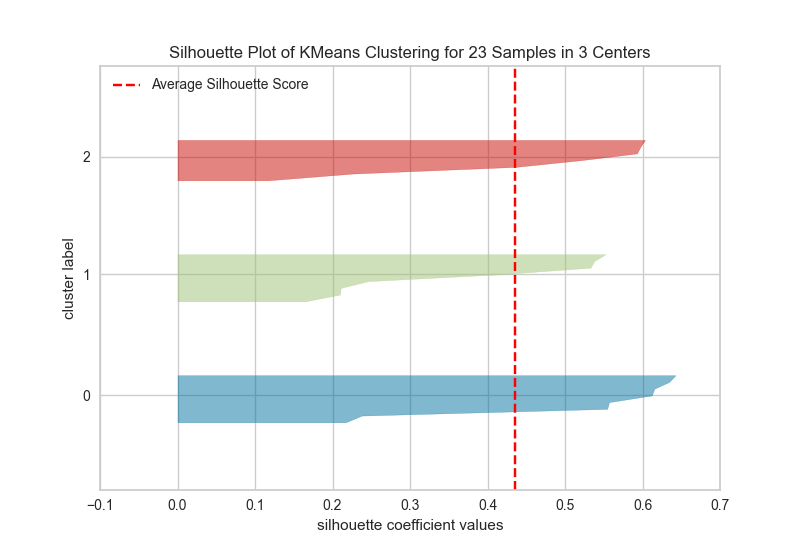
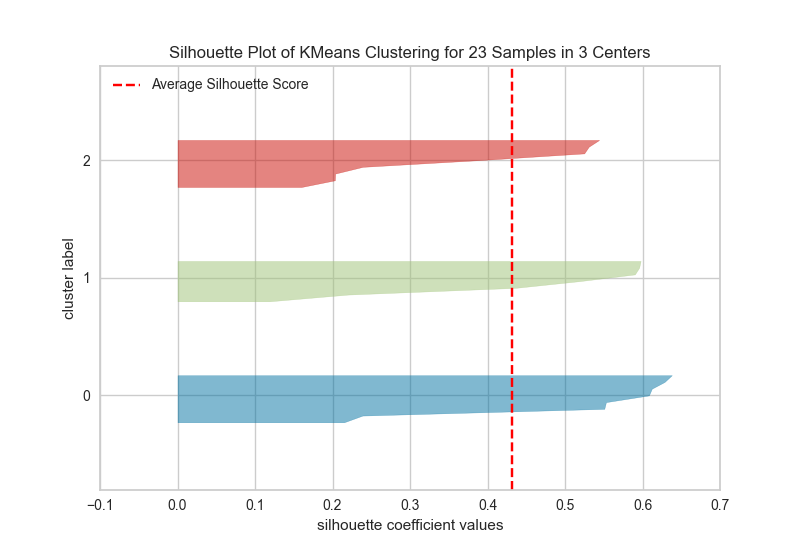
feature extraction

Changed region(s): [[0.0938, 0.1236, 0.875, 0.8964], [0.8125, 0.68, 0.8438, 0.7109]]

diff --git a/main.py b/main.py
@@ -15,12 +15,16 @@ from collections import Counter, defaultdict, OrderedDict
 dataPath = "./data/kodi-base.csv"
 dataOrg = pd.read_csv(dataPath)
 data = dataOrg.copy()
-data = data.drop(columns=["_id"])
+data["x"] = data.apply(lambda row: (row.x1 + row.x2) / 2, axis=1)
+data["y"] = data.apply(lambda row: (row.y1 + row.y2) / 2, axis=1)
+data["w/h"] = data.apply(lambda row: row.width / row.height, axis=1)
+data = data.drop(columns=["_id", "x1", "y1", "x2", "y2"])
 # print(dataOrg.loc[1, '_id'])
 # quit()
+print(data)
 
 numClustersStart = 2
-numClustersEnd = 10
+numClustersEnd = 5
 step = 1
 tol = 1e-04
 maxIter = 300
@@ -54,13 +58,14 @@ for n_clusters in range(numClustersStart, numClustersEnd, step):
     )
     print("For n_clusters =", n_clusters, "The distortion is :", km.inertia_)
     dictionary = {}
-    print(n_clusters ,"clusters:")
+    print(n_clusters, "clusters:")
     for i in range(n_clusters):
         dictionary[i] = []
     for i in range(len(cluster_labels)):
         dictionary[cluster_labels[i]].append(dataOrg.loc[i, "_id"])
     print(dictionary)
     print("------------------------------\n")
+
 
 plt.cla()
 plt.clf()
